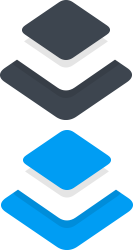
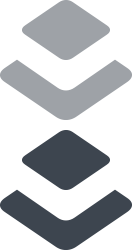
Position relative added to copy / image containers Layers badge on front end is 50% smaller

diff --git a/assets/css/responsive.css b/assets/css/responsive.css
@@ -919,21 +919,21 @@ License URI: http://www.gnu.org/licenses/gpl-2.0.html
         position: fixed;
         bottom: 20px;
         right: 20px;
-        width: 30px;
-        height: 27px;
+        width: 15px;
+        height: 14px;
         z-index: 99;
         background: url(images/created-using-layers.png) top no-repeat;
-        background-size: 30px 56px;
+        background-size: 15px 28px;
         transition: all 0.15s ease-in-out;
     }
     .created-using-layers span{
         display: none;
     }
     .created-using-layers:after{
-        padding: 4px 6px;
+        padding: 4px 4px;
         position: absolute;
-        bottom: 6px;
-        left: -136px;
+        bottom: -1px;
+        right: 25px;
         z-index: 1;
         content: attr(tooltip);
         background: rgba(0, 157, 243, 0.85);
@@ -942,10 +942,11 @@ License URI: http://www.gnu.org/licenses/gpl-2.0.html
         opacity: 0;
         visibility: hidden;
         transition: all 0.1s ease-in-out 0.1s;
-        font-size: 0.9rem;
-        line-height: 1.1rem;
+        font-size: 0.8rem;
+        line-height: 0.9rem;
         text-transform: uppercase;
         letter-spacing: 2px;
+        white-space: nowrap;
     }
     .created-using-layers:hover{
         background-position: bottom;
@@ -953,7 +954,7 @@ License URI: http://www.gnu.org/licenses/gpl-2.0.html
     .created-using-layers:hover:after{
         opacity: 1;
         visibility: visible;
-        left: -140px;
+        right: 20px;
     }
 }
 

diff --git a/assets/css/components.css b/assets/css/components.css
@@ -69,6 +69,7 @@ License URI: http://www.gnu.org/licenses/gpl-2.0.html
     .swiper-slide .copy-container,
     .swiper-slide .image-container{
         width: 100%;
+        position: relative;
     }
     .swiper-slide .section-title{
         margin-bottom: 0;

diff --git a/changelog.md b/changelog.md
@@ -4,6 +4,7 @@
 ##1.2.6
 ### ?? ??? 2015
 
+* **Tweak** - Created Using Layers icon is 50% smaller *DP*
 * **Tweak** - Changed "Preview this Page" to "View this Page" *DP*
 * **Tweak** - Changed Customizer headings: 'Layout' becomes 'Styling', 'Logo & Menu Position' becomes 'Header Arrangement', 'Header Style' becomes 'Features'. *SOB*
 * **Tweak** - Changed existing Layers Widgets to use the new method to add custom fields or field-groups to the design-bar. (see content, post, contact widgets for example. slider was left using old method to test backward-compatibility) *SOB*
